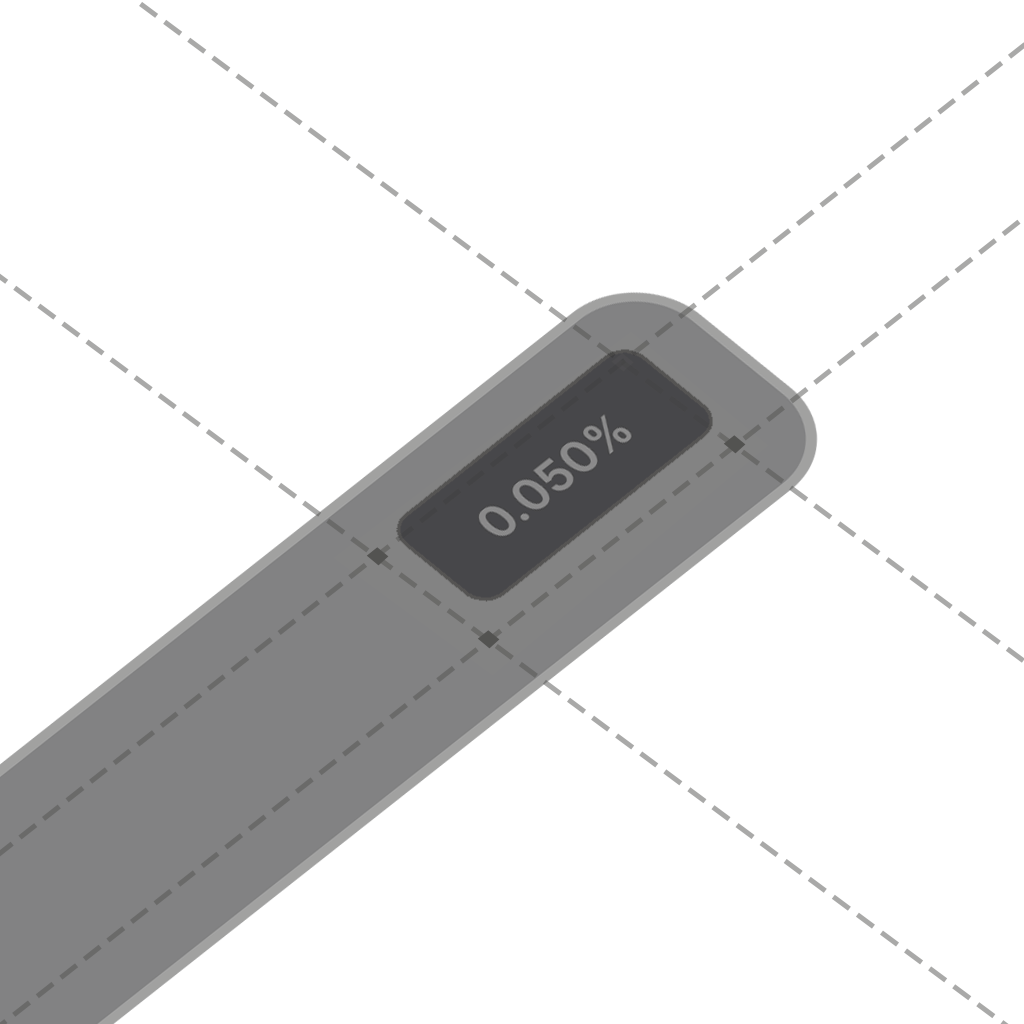
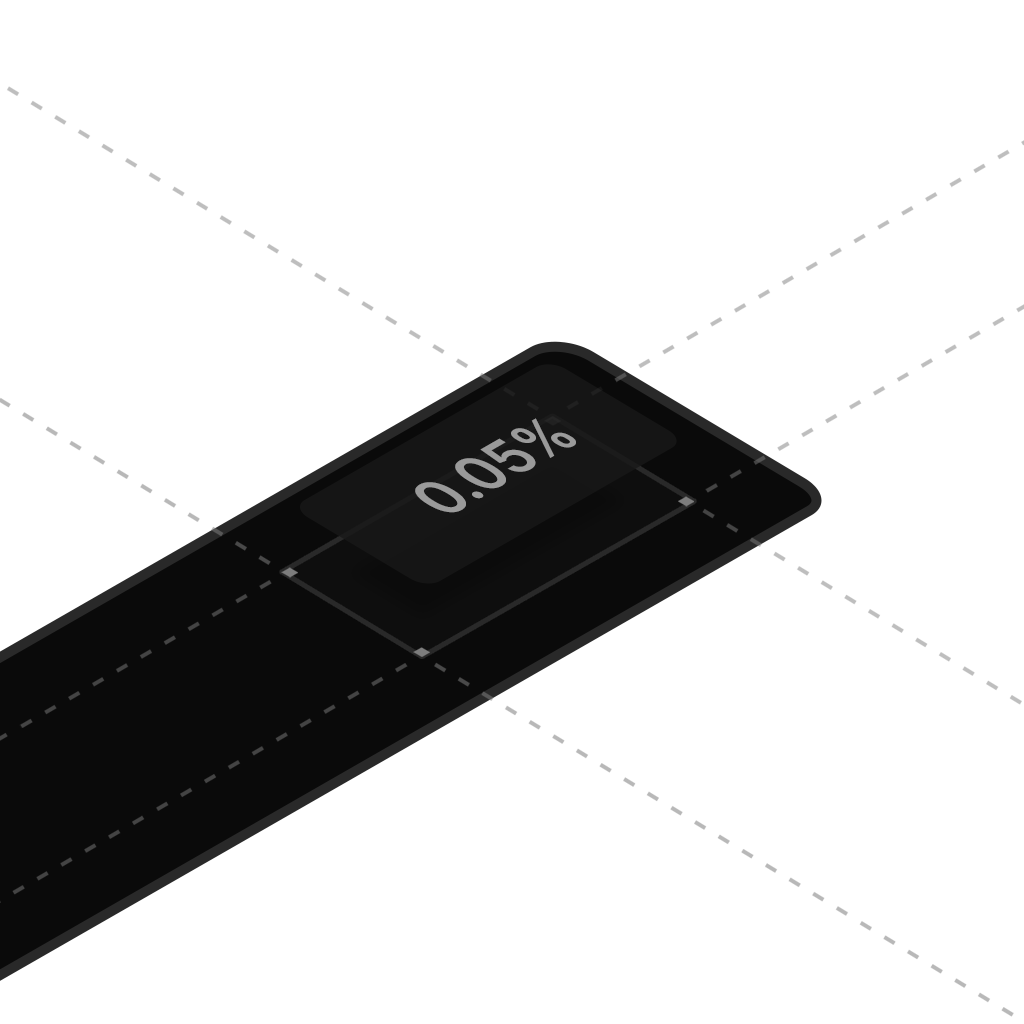
Marketing Update

diff --git a/components/swap/MockSwapComponent.tsx b/components/swap/MockSwapComponent.tsx
@@ -1,0 +1,206 @@
+"use client";
+
+import React, { useState } from 'react';
+import Image from 'next/image';
+import { ArrowDownIcon } from "lucide-react";
+import { Button } from "@/components/ui/button";
+import { Input } from "@/components/ui/input";
+import { Label } from "@/components/ui/label";
+import { cn } from "@/lib/utils";
+
+// Mock token interfaces
+interface MockToken {
+  symbol: string;
+  name: string;
+  balance: string;
+  icon: string;
+  usdPrice: number;
+}
+
+// Mock token data
+const mockTokens = {
+  USDC: {
+    symbol: "USDC",
+    name: "USD Coin",
+    balance: "100",
+    icon: "/YUSD.png",
+    usdPrice: 1
+  } as MockToken,
+  BTC: {
+    symbol: "BTC",
+    name: "Bitcoin",
+    balance: "0",
+    icon: "/BTCRL.png", 
+    usdPrice: 77000
+  } as MockToken
+};
+
+// Exact original OutlineArcIcon
+function MockOutlineArcIcon() {
+  return (
+    <svg
+      width="16"
+      height="16"
+      viewBox="0 0 16 16"
+      fill="none"
+      xmlns="http://www.w3.org/2000/svg"
+    >
+      <circle
+        cx="8"
+        cy="8"
+        r="6"
+        stroke="currentColor"
+        strokeWidth="2"
+        fill="none"
+      />
+      <path
+        d="M 8,2 L 8,14"
+        stroke="currentColor"
+        fill="none"
+        strokeWidth="2"
+        strokeLinecap="round"
+      />
+    </svg>
+  );
+}
+
+interface MockSwapComponentProps {
+  className?: string;
+  zoom?: number;
+}
+
+export function MockSwapComponent({ className, zoom = 1.5 }: MockSwapComponentProps) {
+  const fromToken = mockTokens.USDC;
+  const toToken = mockTokens.BTC;
+  const fromAmount = "0";
+  const toAmount = "0";
+
+  const formatCurrency = (value: string) => {
+    const num = parseFloat(value || "0");
+    return `$${num.toFixed(2)}`;
+  };
+
+  return (
+    // Original clean design
+    <div 
+      className={cn("w-full bg-card rounded-xl border border-[#2f2f2f] p-6 shadow-lg backdrop-blur-sm", className)} 
+      style={{ 
+        width: '400px',
+        zoom: zoom // CSS zoom re-renders at higher resolution
+      }}
+    >
+      {/* Sell Section */}
+      <div className="mb-6">
+        <div className="flex items-center justify-between mb-2">
+          <Label className="text-sm font-medium">Sell</Label>
+          <div className="flex items-center gap-1">
+            <Button 
+              variant="ghost" 
+              className="h-auto p-0 text-xs text-muted-foreground hover:bg-transparent"
+            >
+              Balance: {fromToken.balance} {fromToken.symbol}
+            </Button>
+            <Button
+              variant="ghost"
+              size="icon"
+              className="h-5 w-5 rounded-full hover:bg-muted/40"
+            >
+              <MockOutlineArcIcon />
+            </Button>
+          </div>
+        </div>
+        <div className="rounded-lg bg-muted/30 p-4 hover:outline hover:outline-1 hover:outline-muted">
+          <div className="flex items-center gap-2">
+            <div className="flex items-center gap-1.5 bg-muted/30 border-0 rounded-lg h-10 px-2 mr-2">
+              <Image 
+                src={fromToken.icon} 
+                alt={fromToken.symbol} 
+                width={20} 
+                height={20} 
+                className="rounded-full"
+              />
+              <span className="text-sm">{fromToken.symbol}</span>
+            </div>
+            <div className="flex-1">
+              <Input
+                value={fromAmount}
+                readOnly
+                className="border-0 bg-transparent text-right text-xl md:text-xl font-medium shadow-none focus-visible:ring-0 focus-visible:ring-offset-0 p-0 h-auto cursor-default pointer-events-none"
+                placeholder="0"
+              />
+              <div className="text-right text-xs text-muted-foreground">
+                {formatCurrency((parseFloat(fromAmount || "0") * fromToken.usdPrice).toString())}
+              </div>
+            </div>
+          </div>
+        </div>
+      </div>
+
+      {/* Swap Button */}
+      <div className="flex justify-center">
+        <Button 
+          variant="ghost" 
+          size="icon" 
+          className="rounded-full bg-muted/30 z-10 h-8 w-8" 
+        >
+          <ArrowDownIcon className="h-4 w-4" />
+          <span className="sr-only">Swap tokens</span>
+        </Button>
+      </div>
+
+      {/* Buy Section */}
+      <div className="mb-6 mt-2">
+        <div className="flex items-center justify-between mb-2">
+          <Label className="text-sm font-medium">Buy</Label>
+          <span className="text-xs text-muted-foreground">
+            Balance: {toToken.balance} {toToken.symbol}
+          </span>
+        </div>
+        <div className="rounded-lg bg-muted/30 p-4">
+          <div className="flex items-center gap-2">
+            <div className="flex items-center gap-1.5 bg-muted/30 border-0 rounded-lg h-10 px-2 min-w-[80px] mr-2">
+              <Image 
+                src={toToken.icon} 
+                alt={toToken.symbol} 
+                width={20} 
+                height={20} 
+                className="rounded-full" 
+              />
+              <span className="text-sm font-medium">{toToken.symbol}</span>
+            </div>
+            <div className="flex-1">
+              <Input
+                value={parseFloat(toAmount || "0") === 0 ? "0" : parseFloat(toAmount || "0").toFixed(toToken.symbol === 'BTC' ? 8 : 2)}
+                readOnly
+                className="text-right text-xl md:text-xl font-medium h-auto p-0 focus-visible:ring-0 focus-visible:ring-offset-0 border-0 bg-transparent text-muted-foreground cursor-default pointer-events-none"
+                placeholder="0.00"
+              />
+              <div className="text-right text-xs text-muted-foreground">
+                {formatCurrency((parseFloat(toAmount || "0") * toToken.usdPrice).toString())}
+              </div>
+            </div>
+          </div>
+        </div>
+      </div>
+
+      {/* Fee Information */}
+      <div className="space-y-1 text-sm mt-3">
+        <div className="flex items-center justify-between">
+          <span className="text-xs text-muted-foreground">Fee</span>
+          <span className="text-xs text-foreground">0.10%</span>
+        </div>
+        <div className="flex items-center justify-between">
+          <span className="text-xs text-muted-foreground">Fee Value (USD)</span>
+          <span className="text-xs text-muted-foreground">$0.00</span>
+        </div>
+      </div>
+
+      {/* Swap Button */}
+      <div className="mt-4 h-10">
+        <Button className="w-full bg-accent text-accent-foreground shadow-md transition-all duration-300 hover:bg-white hover:text-black active:scale-[0.98]">
+          Swap
+        </Button>
+      </div>
+    </div>
+  );
+} 

diff --git a/app/page.tsx b/app/page.tsx
@@ -9,6 +9,7 @@ import { RequestAccessButton } from "@/components/RequestAccessButton";
 import DisplayCards from "@/components/ui/display-cards";
 import { toast } from "sonner";
 import { PulsatingDot } from "@/components/pulsating-dot";
+import { MockSwapComponent } from "@/components/swap/MockSwapComponent";
 
 import {
   Card,
@@ -308,9 +309,9 @@ export default function Home() {
               </motion.div>
             </div>
             
-            {/* Swap Component Image - Large screens (2xl+) */}
+            {/* Swap Component - Large screens (2xl+) */}
             <div 
-              className="absolute right-[-80px] top-1/2 z-10 hidden 2xl:block" 
+              className="absolute right-[-20px] top-1/2 z-10 hidden 2xl:block" 
               style={{ 
                 opacity: animationFinished ? 1 : 0,
                 animation: animationFinished ? 'none' : 'swapSlideInLarge 1.2s cubic-bezier(0.25, 0.46, 0.45, 0.94) forwards',
@@ -324,20 +325,20 @@ export default function Home() {
               onMouseLeave={handleMouseLeave}
               onAnimationEnd={handleAnimationEnd}
             >
-              <img 
-                src="/Swap-Component.png" 
-                alt="Swap Component Interface" 
-                className="w-auto h-auto max-h-[700px] max-w-[650px] lg:max-w-[750px] object-contain cursor-pointer"
+              <div 
+                className="cursor-pointer"
                 style={{ 
-                  filter: 'drop-shadow(0 4px 20px rgba(0, 0, 0, 0.25))',
+                  filter: 'drop-shadow(0 4px 20px rgba(0, 0, 0, 0.25))'
                 }}
                 onClick={handleNavigateToSwap}
-              />
+              >
+                <MockSwapComponent zoom={1.2} />
+              </div>
             </div>
             
-            {/* Swap Component Image - Medium screens (custom breakpoint to 2xl) - scaled down 20% */}
+            {/* Swap Component - Medium screens (custom breakpoint to 2xl) */}
             <div 
-              className="absolute right-[-40px] top-1/2 z-10 hidden min-[1010px]:block 2xl:hidden" 
+              className="absolute right-[0px] top-1/2 z-10 hidden min-[1010px]:block 2xl:hidden" 
               style={{ 
                 opacity: animationFinished ? 1 : 0,
                 animation: animationFinished ? 'none' : 'swapSlideIn 1.2s cubic-bezier(0.25, 0.46, 0.45, 0.94) forwards',
@@ -351,15 +352,15 @@ export default function Home() {
               onMouseLeave={handleMouseLeave}
               onAnimationEnd={handleAnimationEnd}
             >
-              <img 
-                src="/Swap-Component.png" 
-                alt="Swap Component Interface" 
-                className="w-auto h-auto max-h-[560px] max-w-[520px] object-contain cursor-pointer"
+              <div 
+                className="cursor-pointer"
                 style={{ 
-                  filter: 'drop-shadow(0 4px 20px rgba(0, 0, 0, 0.25))',
+                  filter: 'drop-shadow(0 4px 20px rgba(0, 0, 0, 0.25))'
                 }}
                 onClick={handleNavigateToSwap}
-              />
+              >
+                <MockSwapComponent zoom={0.9} />
+              </div>
             </div>
             
           </div>
